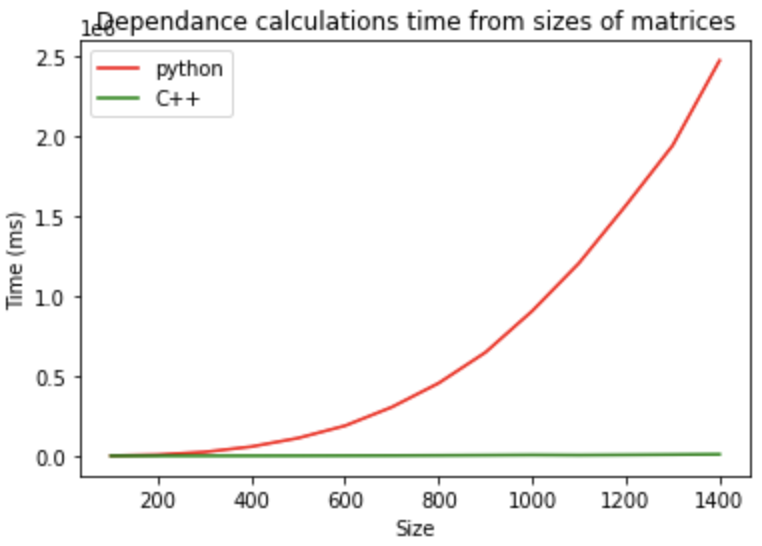
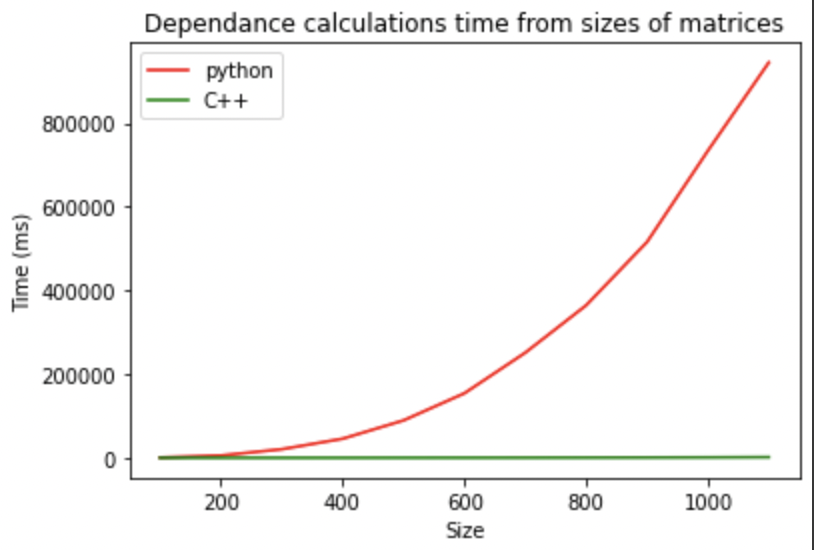
Fixed results of job on supercomputer

Changed region(s): [[0.0, 0.0, 1.0, 1.0], [0.7546, 0.1245, 0.9357, 0.4982], [0.6339, 0.4982, 0.7546, 0.6538]]

diff --git a/data/data_generator.cpp b/data/data_generator.cpp
@@ -1,6 +1,6 @@
 #include "data_generator.hpp"
 #define MIN_SIZE 100
-#define MAX_SIZE 2300
+#define MAX_SIZE 3000
 
 int main(int argc, char* argv[])
 {

diff --git a/README.md b/README.md
@@ -53,12 +53,38 @@ make
  ```
  из исходной директории.
 
+# Запуск кода на суперкомпьютере
+
+Для компиляции файла на С++ использовались флаги -O3 -march=native. Команда из Makefile для компиляции выглядит так:
+
+```
+g++ -O3 -march=native for_supercomputer/main.cpp -o bin/for_supercomputer
+```
+
+Для запуска sh-скрипта использовалось:
+```
+sbatch -A proj_1339 bin/for_supercomputer.sh
+```
+
+В преамбуле sh-файла указывала следующую информацию:
+
+```
+#!/bin/sh
+#SBATCH --cpus-per-task=1   # Требуемое кол-во CPU
+#SBATCH --job-name=hw1      # Название работы
+#SBATCH --constraint="type_d|type_c"  # Тип узла
+```
+На суперкомпьютере программа запускалась через Makefile командой make. В Makefile вызывался файл bin/for_supercomputer.sh. 
+
 # Работа с одноядерными вычислениями
 
 Работа с одноядерными вычислениями происходила на кластере "cHARISMa" ВШЭ.
+Скриптом для запуска на суперкомпьютере является bin/for_supercomputer.sh.
+
+
 # Графики производительности
 
-Для упрощения представления информации на графике для вычислений использовались квадратные матрицы A(n, n), B(n, n). Тем не менее, все скрипты на C++ и питоне адаптированы для работы с прямоугольными матрицами. 
+Для упрощения представления информации на графике для вычислений использовались квадратные матрицы A(n, n), B(n, n). Тем не менее, все скрипты на C++ и python адаптированы для работы с прямоугольными матрицами. 
 
 GFLOPs для матриц A(m, n), B(p, r) рассчитывалось по формуле 
 ```bash
@@ -74,9 +100,14 @@ GFLOPs = m * n * p * 2
 
 ![time_from_size_cpp](./images/time_from_size_cpp.png)
 
+Максимальная вычислительная мощность была достигнута на матрицах размерности 2300.
+
 - Для кода на python
 
 ![time_from_size_python](./images/time_from_size_python.png)
+
+Максимальная вычислительная мощность была достигнута на матрицах размерности 1100.
+
 
 - Сравнение результатов
 
